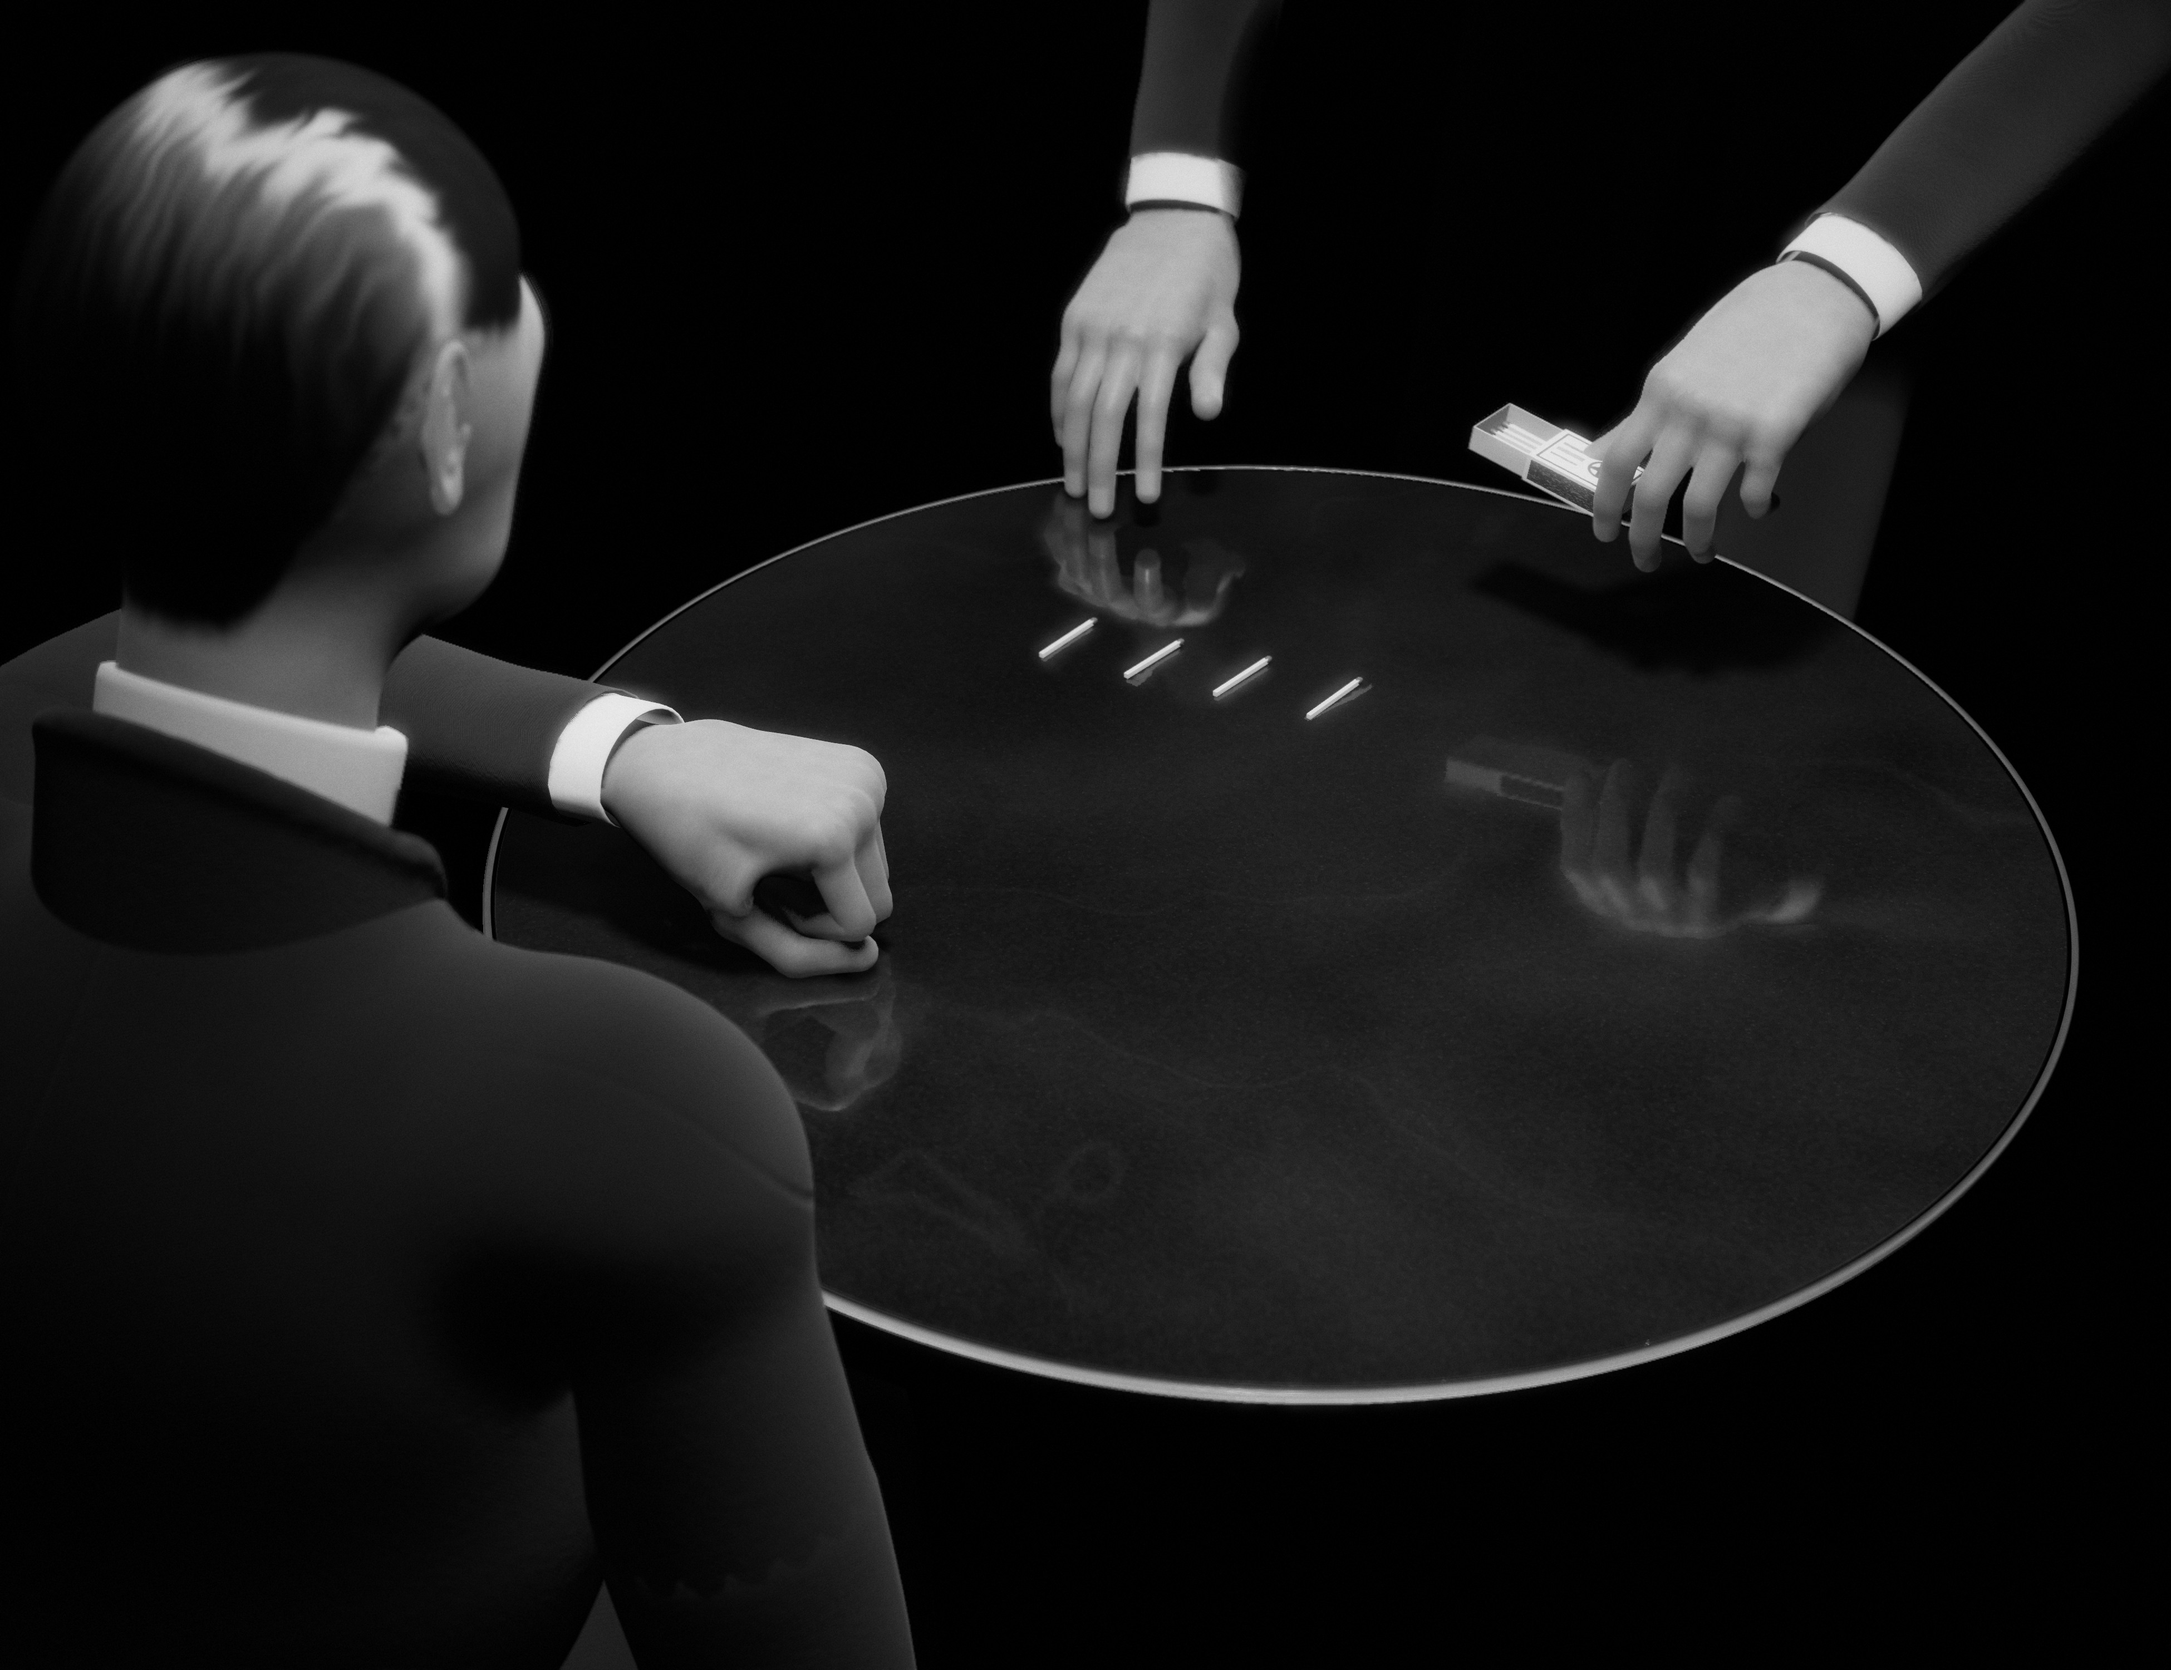
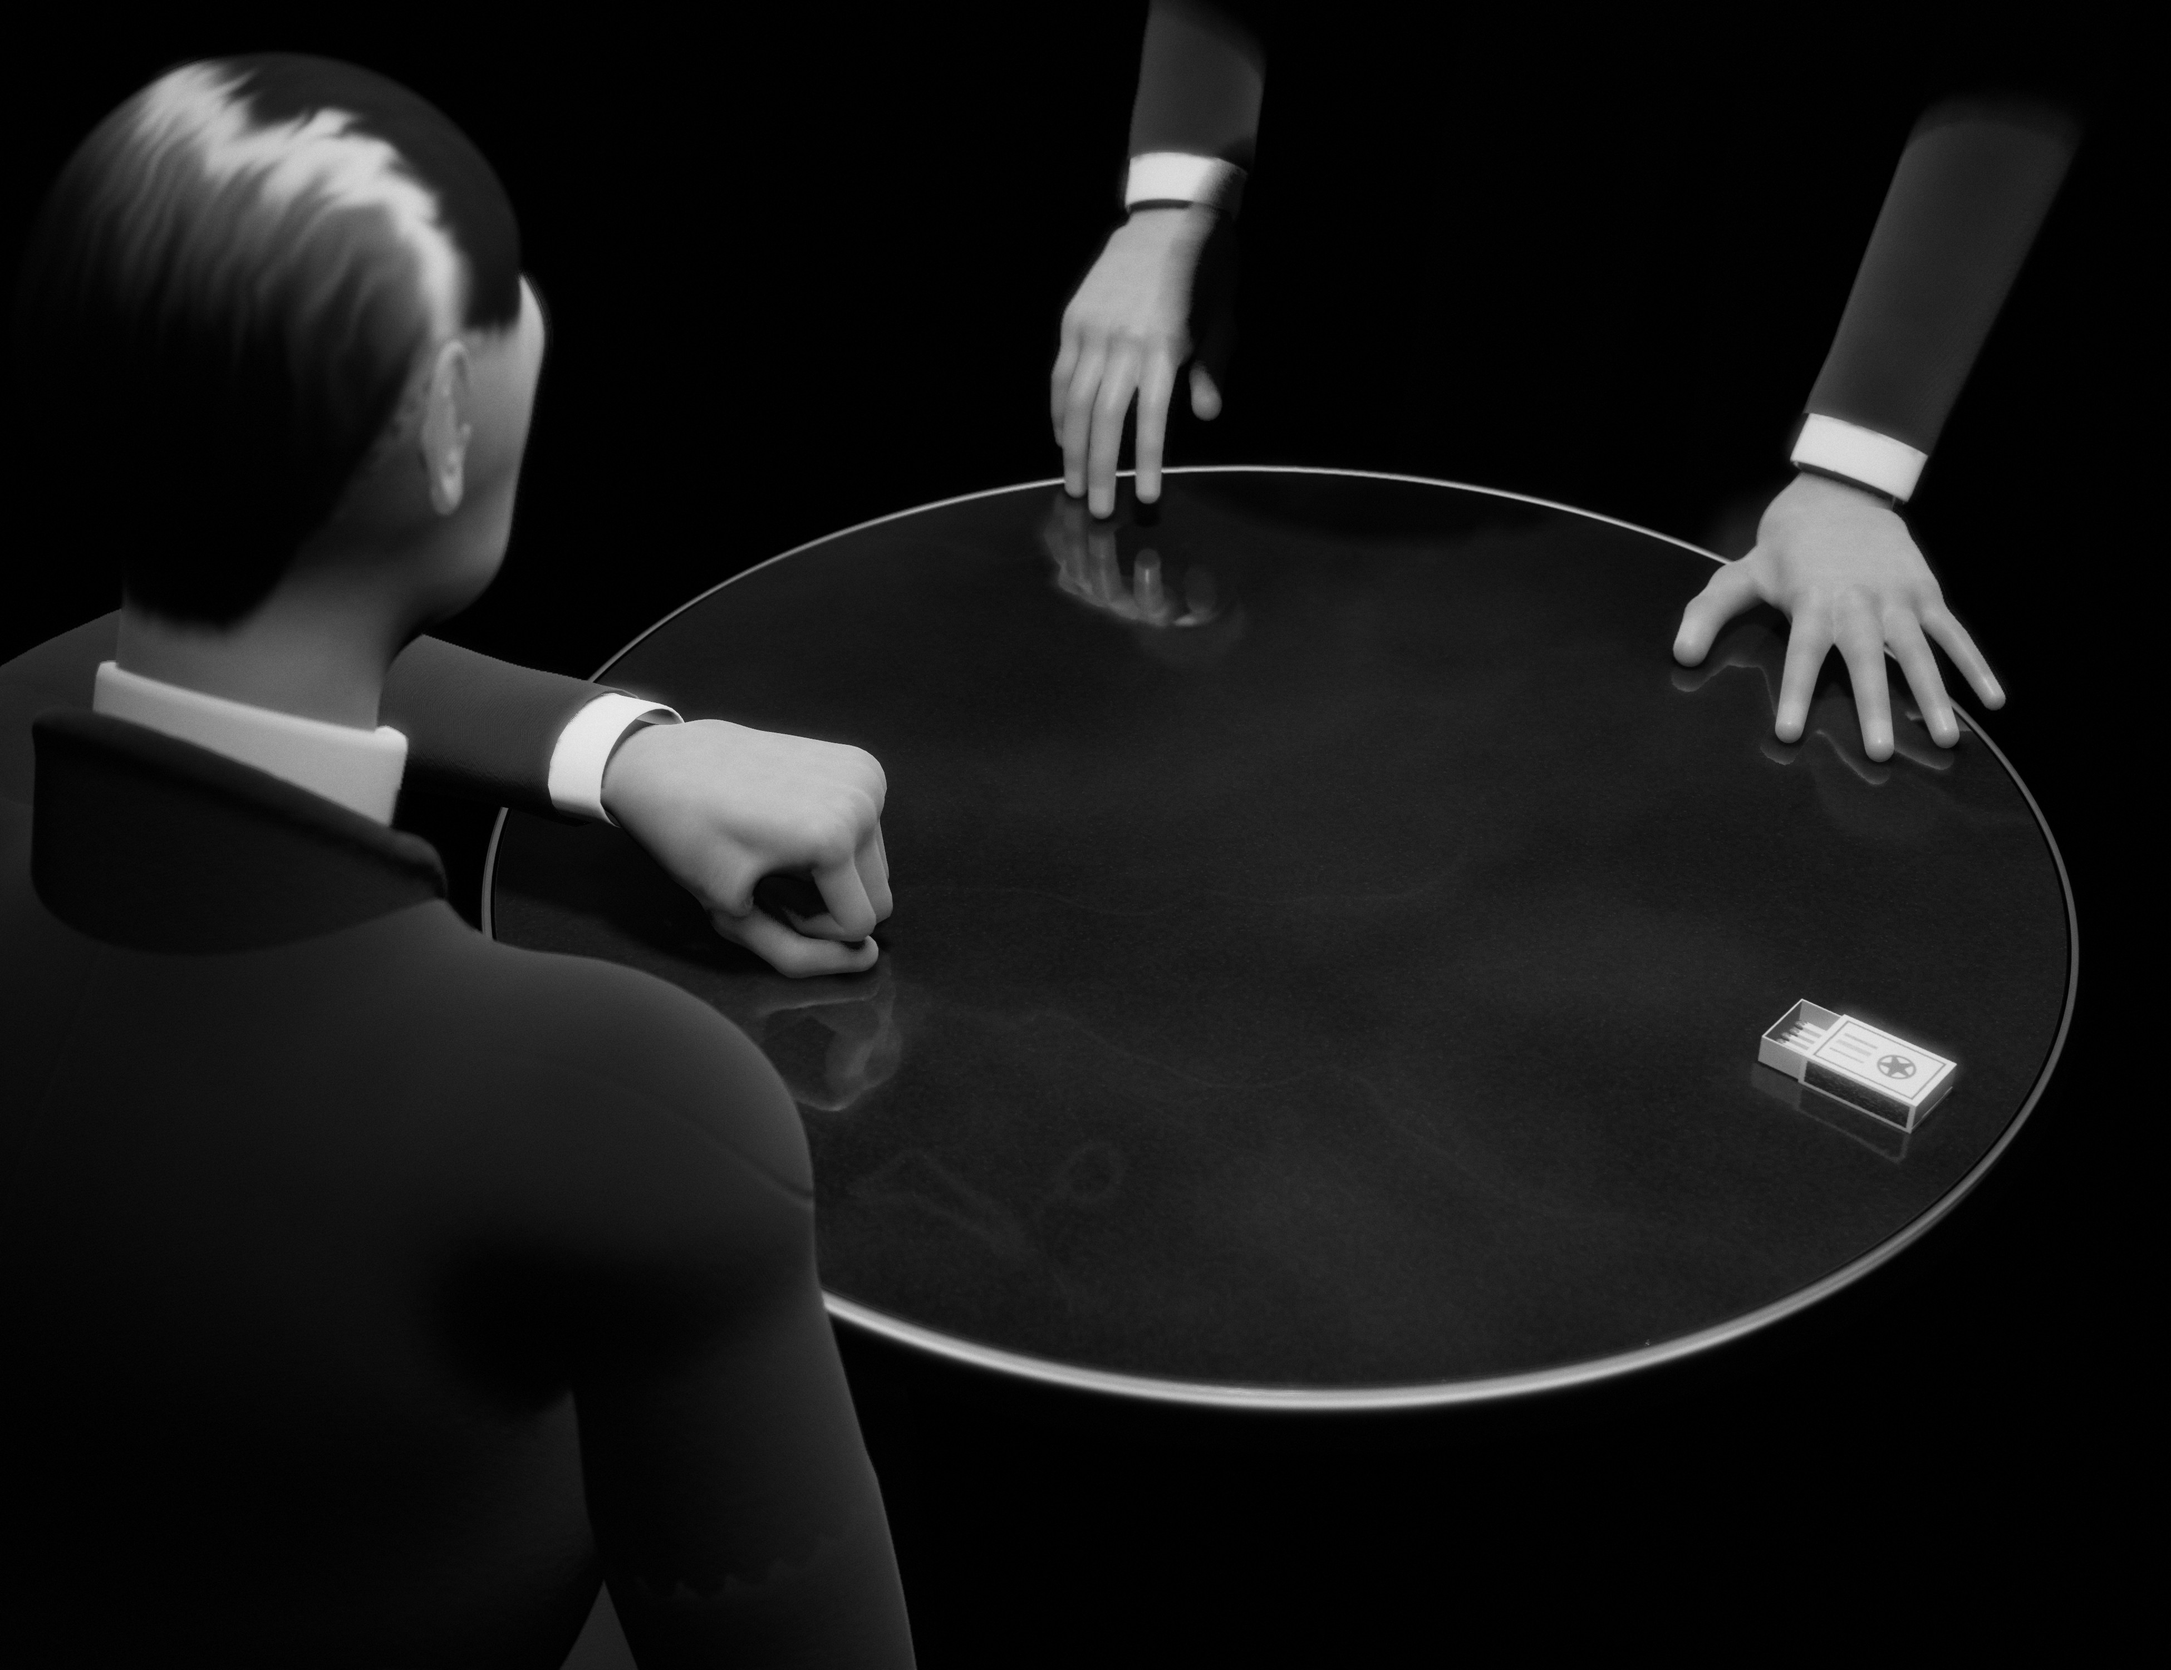
Restore the full match-laying intro in Nim

diff --git a/src/director.js b/src/director.js
@@ -8,7 +8,6 @@ import { clamp, lerp, smoothstep, DEG, rand, rng, mulberry32, quatFromYZ } from 
 
 const UP = new THREE.Vector3(0, 1, 0);
 const WORDS = ['none', 'one', 'two', 'three', 'four', 'five', 'six', 'seven'];
-const OPENING_LAID_MATCHES = 4;
 
 // Timing for a strike: a wind-up that eases into a harder, faster stroke without stopping
 // at the top. Speed is two overlapping humps (the lift, then the strike); the result maps a
@@ -450,18 +449,37 @@ export class Director {
     } else return;
     this.box.updateMatrixWorld(true);
   }
+  // every match back in the box (hidden), nothing on the table or in the piles
+  hideBoard() {
+    for (const p of Object.values(this.piles)) p.items = [];
+    for (const m of this.matches.list) {
+      m.state = 'box';
+      m.anim = null;
+      m.pile = null;
+      m.select = m.highlight = 0;
+      m.mesh.visible = false;
+    }
+  }
   // a point on the box (its own frame: x along it, toward the open drawer) in the world
   boxPoint(x, y, z) {
     this.box.updateMatrixWorld(true);
     return new THREE.Vector3(x, y, z).applyMatrix4(this.box.matrixWorld);
   }
-  matchboxGrip() {
+  // His left hand takes up the matchbox between thumb and fingers and holds it out over the
+  // board beside his right, the open drawer turned toward it; the right draws the matches
+  // from the drawer a few at a time and lays out `slots`, far row first. Then the box goes
+  // back where it lay.
+  async layOutFromBox(slots = this.matches.slots()) {
+    const L = this.oSupport, R = this.oHand;
+    this.mode = 'intro';
+    this.oActive = R;
     // The grip, built in the hand's own frame: thumb and fingers wrapped round the sleeve's
     // long sides near its closed end, the fingers pitched down and toward the drawer, the back
     // of the hand up. The box's grip point sits between thumb and finger pads, so it is always
     // held, never floating or palmed.
+    const restQ = this.boxRest.quat, restP = this.boxRest.pos;
     const grip = POSES.boxGrip;
-    const loc = tcpLocal(this.oSupport.side, grip);
+    const loc = tcpLocal(L.side, grip);
     // the hand in the box's frame: palm over the top, knuckles along its length, fingers
     // pointing across it (away from him) and curling down its far side, thumb on the near side
     const Yh = new THREE.Vector3(0, -0.3, -1).normalize();
@@ -477,6 +495,17 @@ export class Director {
       const q = boxQ.clone().multiply(relQi);
       return { q, w: boxP.clone().sub(relP.clone().applyQuaternion(q)) };
     };
+    const atRest = handFor(restQ, restP);
+    const qG = atRest.q, wGrip = atRest.w;
+    const gripPt = G.clone().applyQuaternion(restQ).add(restP);
+    const wAbove = wGrip.clone();
+    wAbove.y += 0.05;
+    await L.moveTo({ wrist: wAbove, quat: qG, pose: POSES.boxOpen, poseWin: [0.1, 0.8] });
+    await L.moveTo({ wrist: wGrip, quat: qG, pose: POSES.boxOpen, dur: 0.24, arc: 0 });
+    await L.moveTo({ wrist: wGrip, quat: qG, pose: grip, dur: 0.14, arc: 0, poseWin: [0, 1] });
+    this.boxSettle = null;
+    this.boxHeld = { hand: L, relP, relQ, t: 0, p0: this.box.position.clone(), q0: this.box.quaternion.clone() };
+    this.foley.tick(0.3, this.pan(gripPt));
     // held out over the board beside his right hand: the drawer pushed further out and
     // turned toward it, tipped up a little
     const xb = new THREE.Vector3(-1, 0.16, -0.3).normalize();
@@ -484,47 +513,9 @@ export class Director {
     const yb = new THREE.Vector3().crossVectors(zb, xb);
     const qBoxHold = new THREE.Quaternion().setFromRotationMatrix(new THREE.Matrix4().makeBasis(xb, yb, zb));
     const hold = handFor(qBoxHold, new THREE.Vector3(0.08, TABLE_Y + 0.085, -0.235));
-    const rest = handFor(this.boxRest.quat, this.boxRest.pos);
-    const gripPoint = G.clone().applyQuaternion(this.boxRest.quat).add(this.boxRest.pos);
-    return { grip, relP, relQ, hold, rest, gripPoint };
-  }
-
-  prepareOpening() {
-    if (this.still || this.debugLoop || this.debugPlayer) return;
-    // Begin after the first handful has landed, with the matchbox already in hand.
-    for (const match of this.matches.list.slice(OPENING_LAID_MATCHES)) {
-      match.state = 'box';
-      match.mesh.visible = false;
-    }
-    const { grip, relP, relQ, hold } = this.matchboxGrip();
-    const hand = this.oSupport;
-    hand.wrist.copy(hold.w);
-    hand.quat.copy(hold.q);
-    hand.basePose.set(grip);
-    hand.planted = hand.plantTarget = 0;
-    this.boxHeld = { hand, relP, relQ, t: 1, p0: this.box.position.clone(), q0: this.box.quaternion.clone() };
+    const qH = hold.q, wHold = hold.w;
     this.drawerTarget = 0.014;
-  }
-
-  // Lay out slots from the drawer, far row first, then return the matchbox.
-  async layOutFromBox(slots = this.matches.slots()) {
-    const L = this.oSupport, R = this.oHand;
-    this.mode = 'intro';
-    this.oActive = R;
-    const { grip, relP, relQ, rest, hold, gripPoint } = this.matchboxGrip();
-    const qG = rest.q, wGrip = rest.w;
-    const wAbove = wGrip.clone();
-    wAbove.y += 0.05;
-    if (!this.boxHeld) {
-      await L.moveTo({ wrist: wAbove, quat: qG, pose: POSES.boxOpen, poseWin: [0.1, 0.8] });
-      await L.moveTo({ wrist: wGrip, quat: qG, pose: POSES.boxOpen, dur: 0.24, arc: 0 });
-      await L.moveTo({ wrist: wGrip, quat: qG, pose: grip, dur: 0.14, arc: 0, poseWin: [0, 1] });
-      this.boxSettle = null;
-      this.boxHeld = { hand: L, relP, relQ, t: 0, p0: this.box.position.clone(), q0: this.box.quaternion.clone() };
-      this.foley.tick(0.3, this.pan(gripPoint));
-      this.drawerTarget = 0.014;
-      await L.moveTo({ wrist: hold.w, quat: hold.q, pose: grip, poseWin: [0, 1], speed: 1.15 });
-    }
+    await L.moveTo({ wrist: wHold, quat: qH, pose: grip, poseWin: [0, 1], speed: 1.15 });
     // the rows, far to near
     const order = slots.slice().sort((s1, s2) => s1.row - s2.row || s1.col - s2.col);
     const inBox = () => this.matches.list.filter((m) => m.state === 'box');
@@ -561,7 +552,7 @@ export class Director {
     await L.moveTo({ wrist: wGrip.clone().setY(wGrip.y + 0.001), quat: qG, pose: grip, dur: 0.22, arc: 0 });
     this.boxHeld = null;
     this.boxSettle = { t: 0, p0: this.box.position.clone(), q0: this.box.quaternion.clone() };
-    this.foley.tap(0.35, this.pan(gripPoint));
+    this.foley.tap(0.35, this.pan(gripPt));
     await L.moveTo({ wrist: wGrip, quat: qG, pose: POSES.boxOpen, dur: 0.14, arc: 0, poseWin: [0, 1] });
     await L.moveTo({ wrist: wAbove, quat: qG, pose: POSES.boxOpen, dur: 0.25, arc: 0 });
     await Promise.all([back, this.goRest(L)]);
@@ -901,13 +892,12 @@ export class Director {
   async run() {
     // ?still: no game at all (debug: drive the hands from the console)
     if (this.still) { this.showBoard(); this.mode = 'idle'; return; }
-    if (this.debugLoop || this.debugPlayer) {
-      this.showBoard();
-      await this.sched.wait(0.6);
-      return this.debugLoop ? this.runDebugLoop() : this.runPlayerLoop();
-    }
-    await this.layOutFromBox(this.matches.slots().slice(OPENING_LAID_MATCHES));
+    if (this.debugLoop || this.debugPlayer) this.showBoard();
+    // the opponent lays the first game out of the box
+    if (!this.debugLoop && !this.debugPlayer) await this.layOutFromBox();
     await this.sched.wait(0.6);
+    if (this.debugLoop) return this.runDebugLoop();
+    if (this.debugPlayer) return this.runPlayerLoop();
     for (;;) {
       await this.playGame();
       await this.sched.wait(1.6);

diff --git a/src/main.js b/src/main.js
@@ -457,7 +457,7 @@ function build() {
   director.still = params.has('still');
   ui.onConfirm = () => director.confirm();
   ui.onClear = () => director.clearSelection();
-  director.prepareOpening();
+  director.hideBoard(); // the opponent lays the first game out of the box
 
   if (params.has('gallery')) buildGallery();
   resize();
